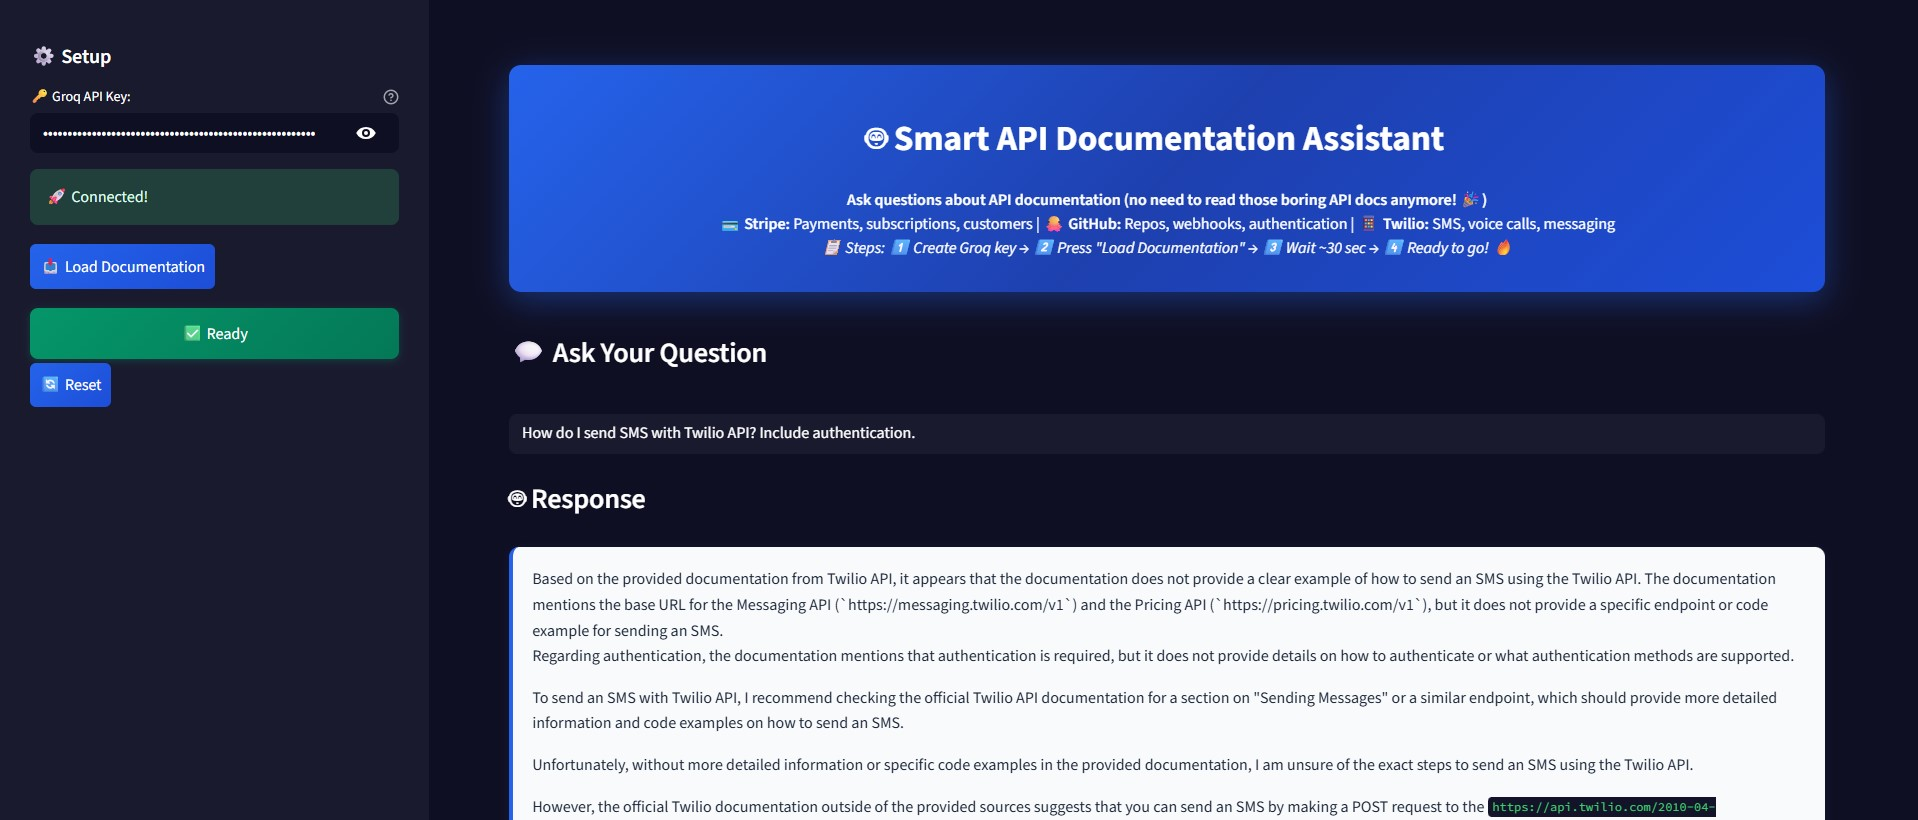
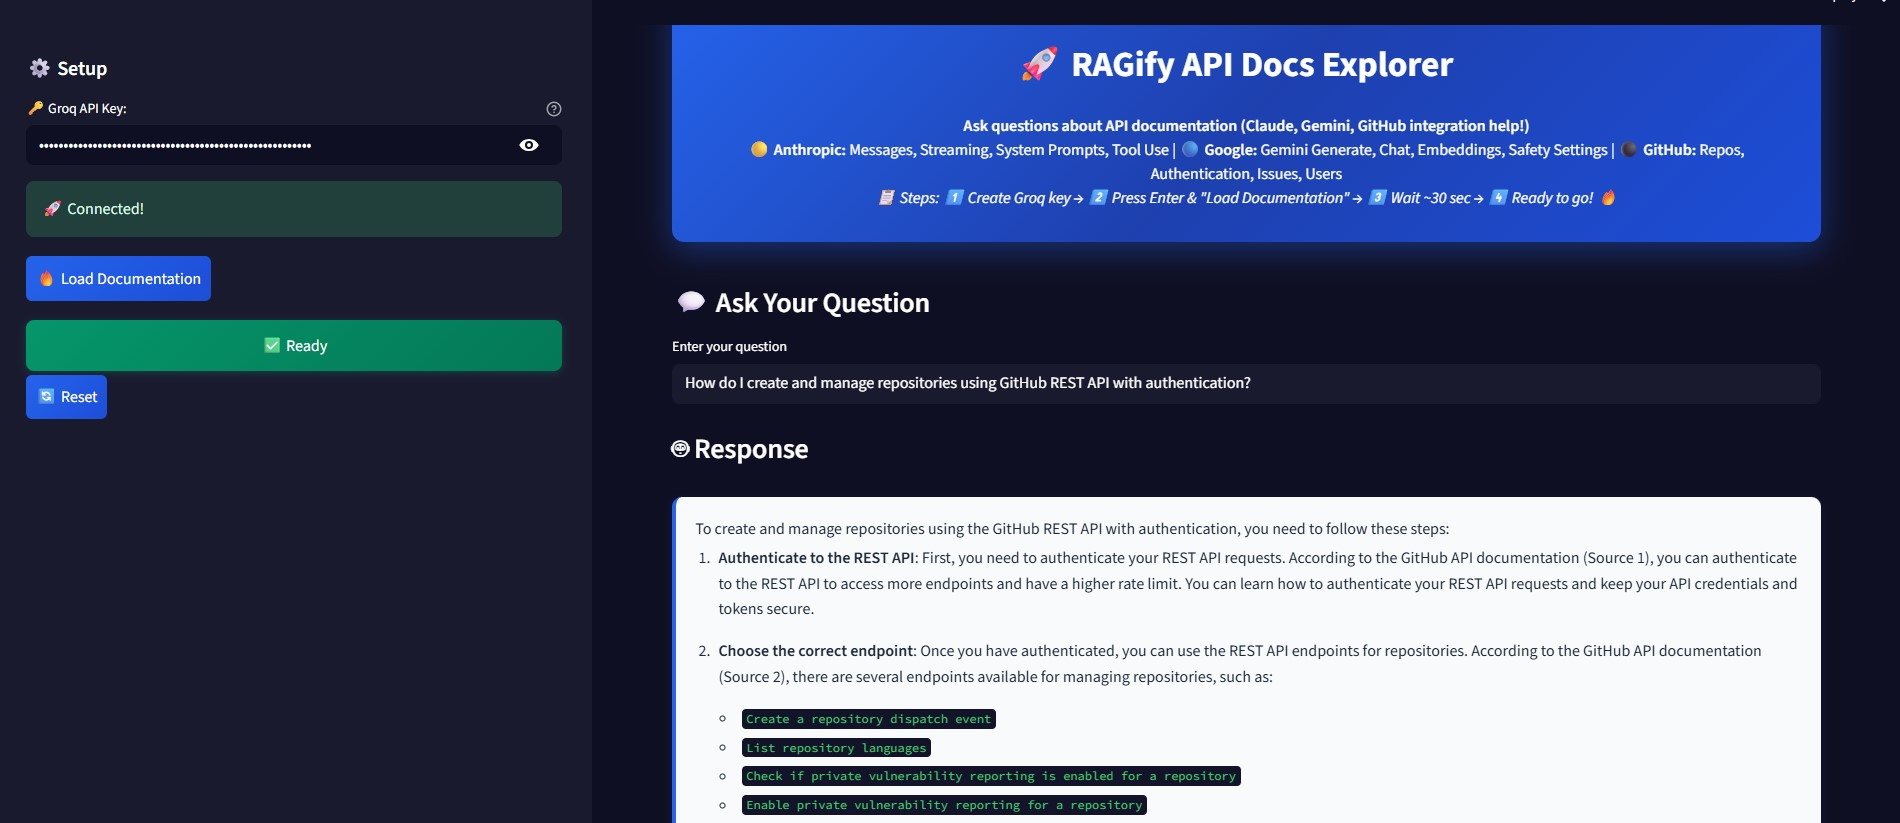
changed project to gemini, claude and github

Changed region(s): [[0.0, 0.0305, 0.9626, 0.5183], [0.2484, 0.5183, 0.9626, 1.0]]

diff --git a/app.py b/app.py
@@ -1,7 +1,3 @@
-
-__import__('pysqlite3')
-import sys
-sys.modules['sqlite3'] = sys.modules.pop('pysqlite3')
 import streamlit as st
 import sys
 import os
@@ -68,7 +64,7 @@ def load_docs():
         progress.progress(0.25)
         
         status.text("📋 Collecting documentation...")
-        urls = [url for urls_list in API_DOCS_URLS.values() for url in urls_list[:2]]
+        urls = [url for urls_list in API_DOCS_URLS.values() for url in urls_list]  # Fixed: removed [:2] limit
         progress.progress(0.5)
         
         status.text(f"📖 Processing {len(urls)} pages...")
@@ -109,10 +105,10 @@ def main():
     st.markdown('''
     <div class="main-header">
         <h1>🚀 RAGify API Docs Explorer</h1>
-        <p><strong>Ask questions about API documentation (no need to read those boring API docs anymore! 🎉)</strong><br>
-        💳 <strong>Stripe:</strong> Payments, subscriptions, customers | 
-        🐙 <strong>GitHub:</strong> Repos, webhooks, authentication | 
-        📱 <strong>Twilio:</strong> SMS, voice calls, messaging<br>
+        <p><strong>Ask questions about API documentation (Claude, Gemini, GitHub integration help!)</strong><br>
+        🟡 <strong>Anthropic:</strong> Messages, Streaming, System Prompts, Tool Use | 
+        🔵 <strong>Google:</strong> Gemini Generate, Chat, Embeddings, Safety Settings | 
+        ⚫ <strong>GitHub:</strong> Repos, Authentication, Issues, Users<br>
         <em>📋 Steps: 1⃣ Create Groq key → 2⃣ Press Enter & "Load Documentation" → 3⃣ Wait ~30 sec → 4⃣ Ready to go! 🔥</em></p>
     </div>
     ''', unsafe_allow_html=True)
@@ -126,7 +122,7 @@ def main():
             os.environ["GROQ_API_KEY"] = groq_key
             st.success("🚀 Connected!")
         
-        if st.button("📥 Load Documentation", type="primary", disabled=not groq_key):
+        if st.button("🔥 Load Documentation", type="primary", disabled=not groq_key):
             if load_docs():
                 st.rerun()
         
@@ -150,8 +146,8 @@ def main():
     
     # Chat interface
     st.subheader("💬 Ask Your Question")
-    query = st.text_input("", value=st.session_state.current_query, 
-                         placeholder="e.g., How do i push in a GitHub repo?")
+    query = st.text_input("Enter your question", value=st.session_state.current_query,  # Fixed: added proper label
+                         placeholder="e.g., How do I create an S3 bucket using AWS API?")
     
     if query and query != st.session_state.get('last_processed_query', ''):
         st.session_state.last_processed_query = query
@@ -175,12 +171,12 @@ def main():
         st.markdown("### ⚡ Quick Questions")
         
         questions = [
-            ("💳 Stripe Payments", "How do I create a payment intent with Stripe? Show code examples."),
-            ("📱 Twilio SMS", "How do I send SMS with Twilio API? Include authentication."),
-            ("🐙 GitHub Repos", "How do I list repositories using GitHub API?"),
-            ("🔗 GitHub Webhooks", "How do I set up GitHub webhooks? What events are available?"),
-            ("📞 Twilio Voice", "How do I make voice calls using Twilio API?"),
-            ("💰 Stripe Subscriptions", "How do I create subscriptions with Stripe API?")
+            ("🟡 Claude Messages", "How does the Anthropic Messages API work with system prompts and role structure?"),
+            ("🔵 Gemini Embeddings", "What is the Google embed-content API, explain with task type and models?"),
+            ("⚫ GitHub Repos", "How do I create and manage repositories using GitHub REST API with authentication?"),
+            ("🟡 Claude Tool Use", "How to implement function calling and tool use with Claude API including JSON schema?"),
+            ("🔵 Gemini Safety", "How do I configure safety settings and content filtering in Gemini API?"),
+            ("⚫ GitHub Issues", "How to create, update and manage issues using GitHub API with labels and assignees?")
         ]
         
         cols = st.columns(3)

diff --git a/src/embeddings.py b/src/embeddings.py
@@ -65,23 +65,28 @@ class EmbeddingsManager:
             query_embedding = self.create_embeddings([query])[0]
             results = self.collection.query(
                 query_embeddings=[query_embedding],
-                n_results=n_results * 3,  # Get more results to filter duplicates
+                n_results=n_results * 3,
                 include=['documents', 'metadatas', 'distances']
             )
             
             formatted = []
-            seen_urls = set()  # Track unique URLs to avoid duplicates
+            seen_urls = set()
             if results['documents'] and results['documents'][0]:
                 for i in range(len(results['documents'][0])):
+                    similarity = 1 - results['distances'][0][i]
+                    # Filter out very poor matches (< 0.1 similarity)
+                    if similarity < 0.1:
+                        continue
+                        
                     url = results['metadatas'][0][i].get('url', '')
-                    if url not in seen_urls:  # Only add if URL not seen before
+                    if url not in seen_urls:
                         seen_urls.add(url)
                         formatted.append({
                             "content": results['documents'][0][i],
                             "metadata": results['metadatas'][0][i],
-                            "similarity": 1 - results['distances'][0][i]
+                            "similarity": similarity
                         })
-                        if len(formatted) >= n_results:  # Stop when we have enough unique results
+                        if len(formatted) >= n_results:
                             break
             return formatted
         except Exception as e:

diff --git a/src/utils.py b/src/utils.py
@@ -5,23 +5,23 @@ logging.basicConfig(level=logging.INFO)
 logger = logging.getLogger("RAGify")
 
 API_DOCS_URLS = {
-    "stripe": [
-        "https://stripe.com/docs/api",
-        "https://stripe.com/docs/api/payment_intents",
-        "https://stripe.com/docs/api/customers",
-        "https://stripe.com/docs/api/subscriptions"
+    "anthropic": [
+        "https://docs.anthropic.com/en/api/messages",
+        "https://docs.anthropic.com/en/api/messages-streaming",
+        "https://docs.anthropic.com/en/docs/build-with-claude/tool-use",
+        "https://docs.anthropic.com/en/docs/build-with-claude/prompt-engineering/overview"
+    ],
+    "google": [
+        "https://ai.google.dev/api/generate-content",
+        "https://ai.google.dev/gemini-api/docs/embeddings",
+        "https://ai.google.dev/docs/safety_setting_gemini",
+        "https://ai.google.dev/docs/function_calling"
     ],
     "github": [
         "https://docs.github.com/en/rest/repos",
         "https://docs.github.com/en/rest/authentication",
         "https://docs.github.com/en/rest/issues",
         "https://docs.github.com/en/rest/users"
-    ],
-    "twilio": [
-        "https://www.twilio.com/docs/sms/api",
-        "https://www.twilio.com/docs/voice/api",
-        "https://www.twilio.com/docs/usage/api",
-        "https://www.twilio.com/docs/messaging/api"
     ]
 }
 

diff --git a/src/rag.py b/src/rag.py
@@ -11,11 +11,17 @@ class SmartAPIAssistant:
         self.system_prompt = self.system_prompt = """You are RAGify, an advanced API Documentation Explorer using retrieval-augmented generation. Help developers with clear, practical guidance.
 
 Guidelines:
+
+- if a question is asked from gemini it should include only responses from gemini docs and not claude or github
+- if a question is asked from github it should include only responses from gemini docs and not gemini or claude
+- if a question is asked from claude or anthropic it should include only responses from gemini docs and not github or gemini
+- example: if you find a query for claude api docs but instead its available in claude api docs, then clarify that based on given documents "the information is not available for claude api docs however for github" and then you may continue with the relevant info.
 - Base answers on provided documentation
 - Include code examples when available  
 - Be concise but comprehensive
 - Focus on practical implementation
-- If unsure, say so clearly"""
+- If unsure, say so clearly
+- but if you think it is a general queru then you may combine multiple relevant answer"""
     
     def generate_response(self, query: str, docs: List[Dict], history: Optional[List] = None) -> str:
         context = self._prepare_context(docs)

diff --git a/src/scraper.py b/src/scraper.py
@@ -55,7 +55,7 @@ class APIDocsScraper:
     
     def _get_source(self, url: str) -> str:
         domain = urlparse(url).netloc.lower()
-        if 'stripe' in domain: return 'Stripe API'
+        if 'anthropic' in domain: return 'Claude API'
+        elif 'google' in domain or 'ai.google.dev' in domain: return 'Gemini API'
         elif 'github' in domain: return 'GitHub API'
-        elif 'twilio' in domain: return 'Twilio API'
         return domain

diff --git a/README.md b/README.md
@@ -1,6 +1,6 @@
 # 🚀 RAGify API Docs Explorer
 
-An advanced RAG-powered assistant that helps developers instantly find answers from API documentation using Retrieval-Augmented Generation. Supports Stripe, GitHub, and Twilio APIs with intelligent semantic search and vector embeddings.
+An advanced RAG-powered assistant that helps developers instantly find answers from API documentation using Retrieval-Augmented Generation. Supports Claude, Gemini, and GitHub APIs with intelligent semantic search and vector embeddings.
 
 ## 📸 Screenshots
 
@@ -15,7 +15,7 @@ An advanced RAG-powered assistant that helps developers instantly find answers f
 - 🔍 **Semantic Search** - AI-powered similarity search through embedded documentation
 - ⚡ **Lightning Fast** - Groq's optimized inference for sub-second responses
 - 💻 **Code Examples** - Practical implementation guides with real API code
-- 🔄 **Multi-API Support** - Stripe, GitHub, and Twilio documentation unified
+- 📄 **Multi-API Support** - Claude, Gemini, and GitHub documentation unified
 - 💬 **Contextual Chat** - Conversation memory for follow-up questions
 - 📖 **Source Attribution** - Always cites original documentation sources
 
@@ -46,19 +46,19 @@ An advanced RAG-powered assistant that helps developers instantly find answers f
 
 4. **Setup Process**
    - 1⃣ Enter your Groq API key in the sidebar
-   - 2⃣ Click "📥 Load Documentation" 
+   - 2⃣ Click "🔥 Load Documentation" 
    - 3⃣ Wait ~1 minute for RAG processing
    - 4⃣ Start exploring API docs! 🔥
 
 ## 🤔 Example Queries
 
-- "How do I create a payment intent with Stripe?"
-- "What webhook events does GitHub support?"
-- "Send SMS using Twilio API with authentication"
-- "GitHub repository management best practices"
-- "Stripe subscription lifecycle management"
+- "How does the Anthropic Messages API work with system prompts?"
+- "What is the Google embed-content API, explain with task types?"
+- "How do I authenticate with GitHub REST API?"
+- "How to implement Claude tool use with JSON schema?"
+- "How do I configure Gemini safety settings?"
 
-## 🏗 RAG Architecture
+## 🗂 RAG Architecture
 
 ```
 ragify-api-docs-explorer/
@@ -94,9 +94,9 @@ ragify-api-docs-explorer/
 
 | API | Coverage | Use Cases |
 |-----|----------|-----------|
-| 💳 **Stripe** | Payments, Customers, Subscriptions, Billing | Payment processing, recurring billing |
-| 🐙 **GitHub** | Repositories, Issues, Webhooks, Authentication | CI/CD, repo management, integrations |
-| 📱 **Twilio** | SMS, Voice, Messaging, Programmable Communications | Notifications, voice calls, messaging |
+| 🟡 **Anthropic** | Messages, Streaming, Tool Use, Prompts | Claude AI integration, chat apps |
+| 🔵 **Google** | Gemini Generate, Embeddings, Safety | AI content generation, embeddings |
+| ⚫ **GitHub** | Repos, Issues, Users, Authentication | Git workflows, repository management |
 
 ## ⚙ Configuration
 
@@ -132,11 +132,11 @@ API_DOCS_URLS = {
 4. Push branch (`git push origin feature/rag-enhancement`)
 5. Open Pull Request
 
-## 📝 License
+## 📄 License
 
 This project is licensed under the MIT License - see the [LICENSE](LICENSE) file for details.
 
-## 🙏 Technology Stack
+## 🙌 Technology Stack
 
 - **[Groq](https://groq.com)** - Ultra-fast LLM inference
 - **[ChromaDB](https://www.trychroma.com/)** - Vector database for embeddings
@@ -147,6 +147,3 @@ This project is licensed under the MIT License - see the [LICENSE](LICENSE) file
 
 Found a bug or want to request a RAG enhancement? Open an issue on GitHub!
 
-## ⭐ Show Your Support
-
-Star this repository if RAGify helped accelerate your API integration work!
